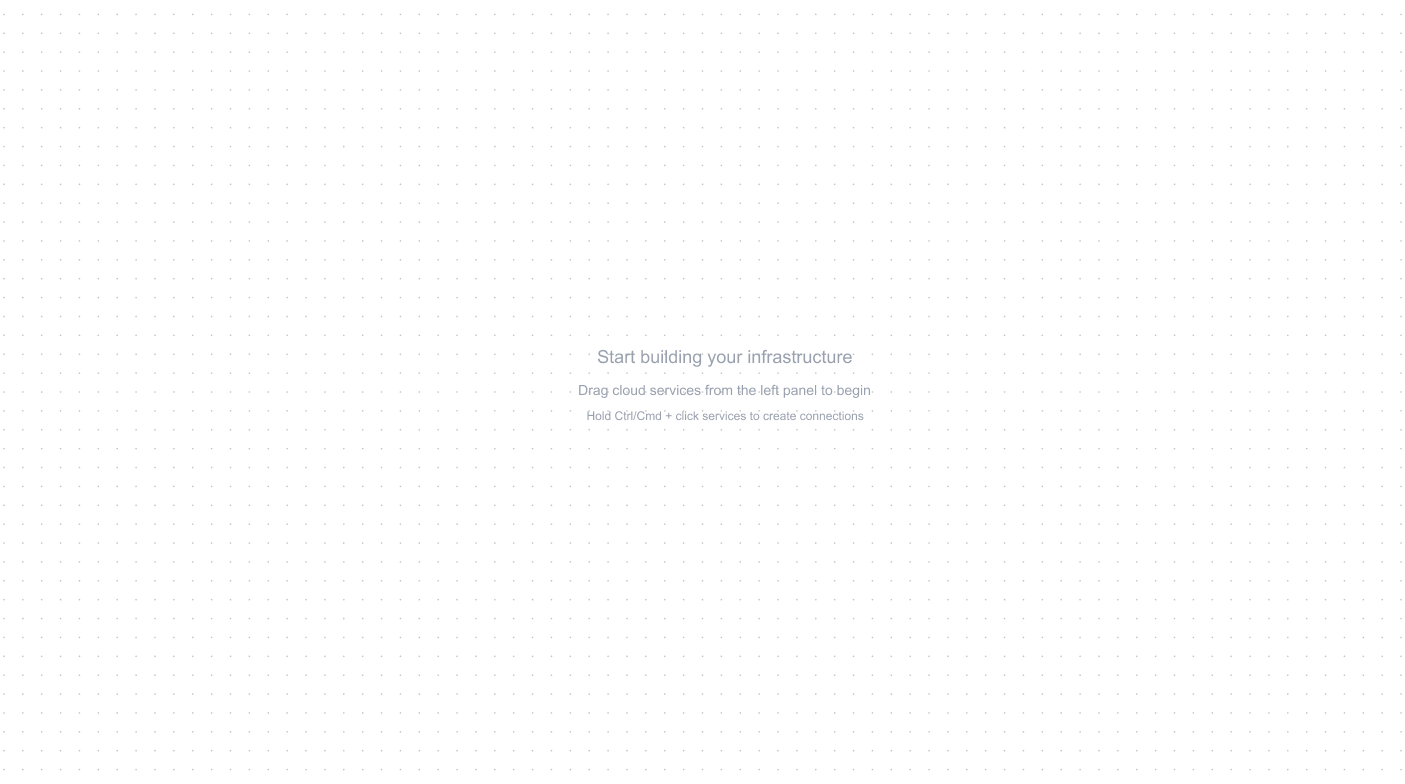
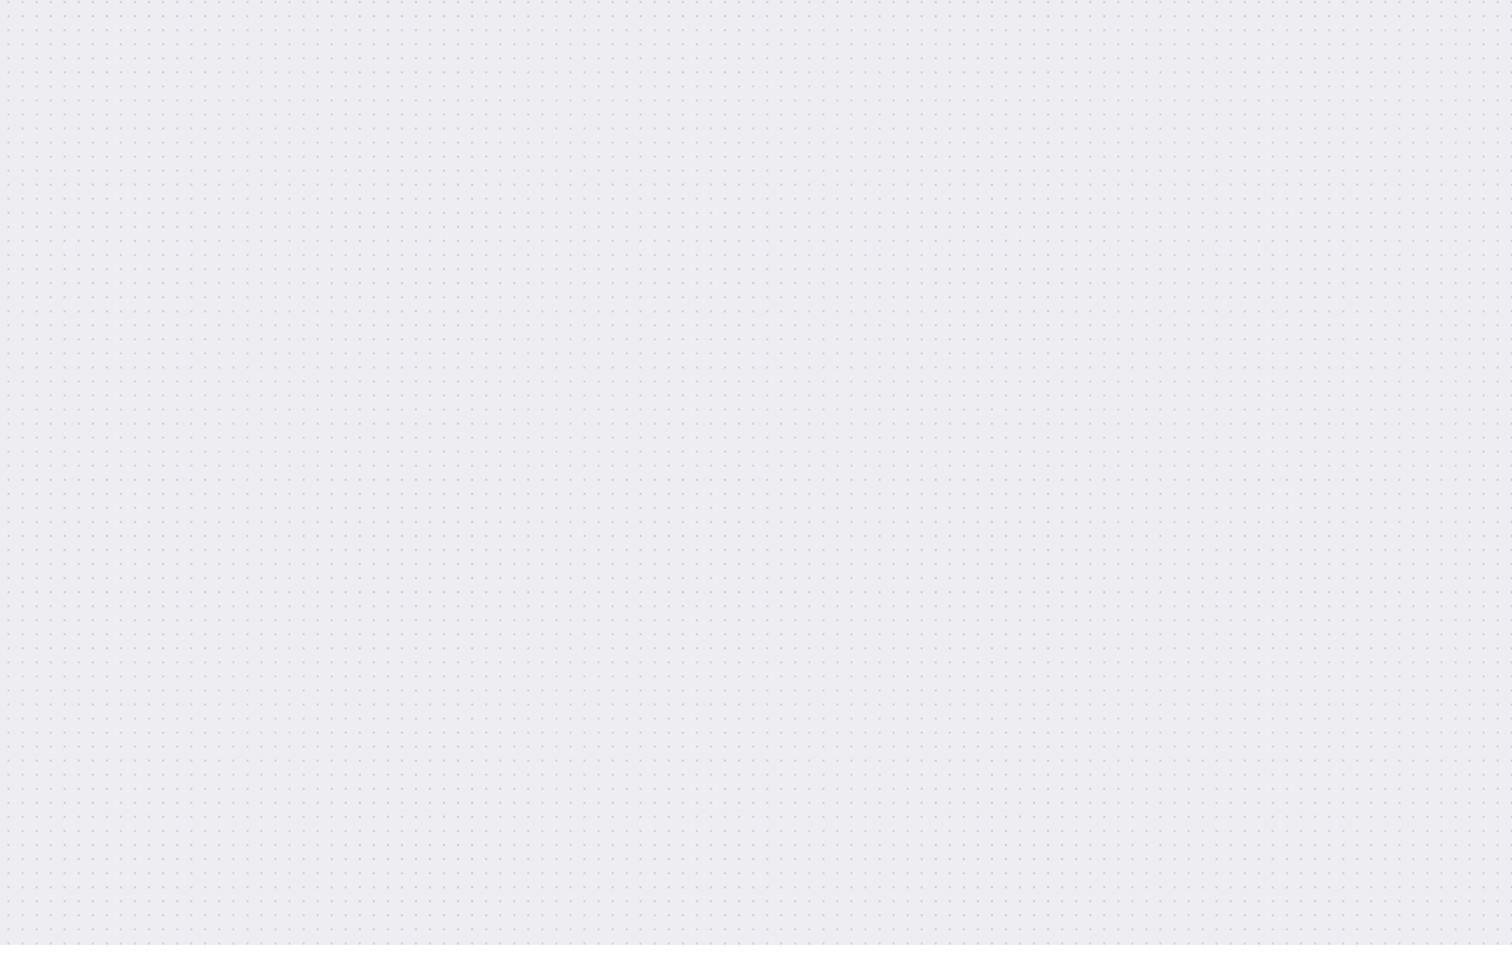
feat(canvas): add zoom functionality with controls and scaling
Implement zoom feature for canvas including:
- Zoom state management in context
- Zoom controls in navbar with slider and presets
- Proper scaling of nodes and mouse positions
- Canvas transform scaling with overflow handling

Changed region(s): [[0.3979, 0.4286, 0.6121, 0.551]]

diff --git a/src/components/AwsBuilder/TopNavbar.tsx b/src/components/AwsBuilder/TopNavbar.tsx
@@ -1,5 +1,6 @@
 import React, { useState } from 'react';
 import Image from 'next/image';
+import { useAwsBuilder } from '@/context/AwsBuilderContext';
 
 interface TopNavbarProps {
   className?: string;
@@ -11,6 +12,8 @@ interface TopNavbarProps {
 
 export const TopNavbar: React.FC<TopNavbarProps> = ({ className, onClearAll, onImport, onSave, onExport }) => {
   const [activeTab, setActiveTab] = useState('Canvas');
+  const { state, zoomIn, zoomOut, setZoom, resetZoom } = useAwsBuilder();
+  const [showZoomMenu, setShowZoomMenu] = useState(false);
 
   const navItems = [
     { id: 'canvas', label: 'Canvas', icon: '🎨' },
@@ -62,10 +65,47 @@ export const TopNavbar: React.FC<TopNavbarProps> = ({ className, onClearAll, onI
             <button className="px-2 py-1 rounded hover:bg-gray-100" title="Undo">↶</button>
             <button className="px-2 py-1 rounded hover:bg-gray-100" title="Redo">↷</button>
             <span className="h-5 w-px bg-gray-200 mx-1" />
-            <button className="px-2 py-1 rounded hover:bg-gray-100" title="Zoom out">−</button>
-            <span className="text-sm">100%</span>
-            <button className="px-2 py-1 rounded hover:bg-gray-100" title="Zoom in">+</button>
-            <button className="px-2 py-1 rounded hover:bg-gray-100" title="Fullscreen">⛶</button>
+
+            {/* Zoom controls cluster */}
+            <div className="relative flex items-center gap-2">
+              <button className="px-2 py-1 rounded hover:bg-gray-100" title="Zoom out" onClick={zoomOut}>−</button>
+              <button
+                className="px-2 py-1 rounded hover:bg-gray-100 text-sm"
+                title="Zoom menu"
+                onClick={() => setShowZoomMenu((v) => !v)}
+              >
+                {Math.round((state.zoom || 1) * 100)}%
+              </button>
+              <button className="px-2 py-1 rounded hover:bg-gray-100" title="Zoom in" onClick={zoomIn}>+</button>
+              <button className="px-2 py-1 rounded hover:bg-gray-100" title="Fullscreen">⛶</button>
+
+              {showZoomMenu && (
+                <div
+                  className="absolute top-8 left-0 bg-white border rounded shadow-lg p-3 z-50 min-w-[220px]"
+                  onMouseLeave={() => setShowZoomMenu(false)}
+                >
+                  <div className="text-xs text-slate-600 mb-2">Zoom</div>
+                  <div className="flex items-center gap-2">
+                    <input
+                      type="range"
+                      min={75}
+                      max={200}
+                      step={5}
+                      value={Math.round((state.zoom || 1) * 100)}
+                      onChange={(e) => setZoom(Number(e.target.value) / 100)}
+                      className="w-full"
+                    />
+                    <span className="text-xs w-10 text-right">{Math.round((state.zoom || 1) * 100)}%</span>
+                  </div>
+                  <div className="flex items-center gap-2 mt-3">
+                    <button onClick={() => setZoom(0.75)} className="px-2 py-1 rounded hover:bg-gray-100 text-xs">75%</button>
+                    <button onClick={() => setZoom(1)} className="px-2 py-1 rounded hover:bg-gray-100 text-xs">100%</button>
+                    <button onClick={() => setZoom(1.5)} className="px-2 py-1 rounded hover:bg-gray-100 text-xs">150%</button>
+                    <button onClick={resetZoom} className="px-2 py-1 rounded hover:bg-gray-100 text-xs">Reset</button>
+                  </div>
+                </div>
+              )}
+            </div>
           </div>
 
           {/* Right actions */}

diff --git a/src/context/AwsBuilderContext.tsx b/src/context/AwsBuilderContext.tsx
@@ -58,6 +58,8 @@ export type AwsBuilderState = {
   showPropertiesPanel: boolean;
   // Virtual anchors to allow connecting from aggregated boxes
   virtualAnchors: { id: string; x: number; y: number }[];
+  // Canvas zoom level (1 = 100%)
+  zoom: number;
 };
 
 export type AwsBuilderContextValue = {
@@ -86,6 +88,11 @@ export type AwsBuilderContextValue = {
   // Security Group helpers
   listSecurityGroupsForParent: (parentNodeId: string) => PlacedNode[];
   updateEc2SecurityGroups: (ec2NodeId: string, groupNames: string[]) => void;
+  // Zoom controls
+  setZoom: (z: number) => void;
+  zoomIn: () => void;
+  zoomOut: () => void;
+  resetZoom: () => void;
 };
 
 const AwsBuilderContext = createContext<AwsBuilderContextValue | undefined>(undefined);
@@ -103,6 +110,7 @@ export function AwsBuilderProvider({ children }: { children: ReactNode }) {
     showServiceModal: false,
     showPropertiesPanel: false,
     virtualAnchors: [],
+    zoom: 1,
   });
 
   const { currentProvider } = useCloudProvider();
@@ -326,11 +334,25 @@ export function AwsBuilderProvider({ children }: { children: ReactNode }) {
       showServiceModal: false,
       showPropertiesPanel: false,
       virtualAnchors: [],
+      zoom: 1,
     });
 
     // Also clear pricing state
     clearAllCosts();
   };
+
+  // Zoom control helpers
+  const setZoom = (z: number) => {
+    const clamped = Math.max(0.75, Math.min(2, z));
+    setState(prev => ({ ...prev, zoom: clamped }));
+  };
+  const zoomIn = () => {
+    setState(prev => ({ ...prev, zoom: Math.min(2, +(prev.zoom + 0.1).toFixed(2)) }));
+  };
+  const zoomOut = () => {
+    setState(prev => ({ ...prev, zoom: Math.max(0.75, +(prev.zoom - 0.1).toFixed(2)) }));
+  };
+  const resetZoom = () => setZoom(1);
 
   const exportData = () => ({
     nodes: state.placedNodes,
@@ -668,6 +690,11 @@ export function AwsBuilderProvider({ children }: { children: ReactNode }) {
      // Security Group helpers
      listSecurityGroupsForParent,
      updateEc2SecurityGroups,
+     // Zoom
+     setZoom,
+     zoomIn,
+     zoomOut,
+     resetZoom,
   };
 
   return (

diff --git a/src/components/AwsBuilder/CanvasArea.tsx b/src/components/AwsBuilder/CanvasArea.tsx
@@ -38,8 +38,9 @@ export function CanvasArea() {
       
       if (canvasRef.current) {
         const rect = canvasRef.current.getBoundingClientRect();
-        let x = e.clientX - rect.left - 40; // Center the icon (80px width / 2)
-        let y = e.clientY - rect.top - 40;  // Center the icon (80px height / 2)
+        const scale = state.zoom || 1;
+        let x = (e.clientX - rect.left) / scale - 40; // Center the icon (80px width / 2)
+        let y = (e.clientY - rect.top) / scale - 40;  // Center the icon (80px height / 2)
         
         // Smart positioning: Check if there's already a node at this position
         // If yes, offset the new node to prevent overlapping
@@ -120,9 +121,10 @@ export function CanvasArea() {
   const handleMouseMove = (e: React.MouseEvent) => {
     if (canvasRef.current) {
       const rect = canvasRef.current.getBoundingClientRect();
+      const scale = state.zoom || 1;
       setMousePosition({
-        x: e.clientX - rect.left,
-        y: e.clientY - rect.top
+        x: (e.clientX - rect.left) / scale,
+        y: (e.clientY - rect.top) / scale
       });
     }
   };
@@ -131,11 +133,15 @@ export function CanvasArea() {
     <div className="relative h-full">
       <div
         ref={canvasRef}
-        className="w-full h-full relative overflow-hidden transition-colors"
+        className="w-full h-full relative overflow-auto transition-colors"
           style={{
             backgroundColor: 'white',
             backgroundImage: 'url(/aws/DesignCanvas.png)',
             // backgroundSize: '60px 60px',
+            width: `${(1 / (state.zoom || 1)) * 100}%`,
+            height: `${(1 / (state.zoom || 1)) * 100}%`,
+            transform: `scale(${state.zoom || 1})`,
+            transformOrigin: 'top left',
           }}
         onDragOver={handleDragOver}
         onDragLeave={handleDragLeave}

diff --git a/src/components/AwsBuilder/DraggableNode.tsx b/src/components/AwsBuilder/DraggableNode.tsx
@@ -46,9 +46,10 @@ export function DraggableNode({ node, isSelected }: DraggableNodeProps) {
     
     const rect = nodeRef.current?.getBoundingClientRect();
     if (rect) {
+      const scale = state.zoom || 1;
       setDragOffset({
-        x: e.clientX - rect.left,
-        y: e.clientY - rect.top
+        x: (e.clientX - rect.left) / scale,
+        y: (e.clientY - rect.top) / scale
       });
     }
 
@@ -80,8 +81,9 @@ export function DraggableNode({ node, isSelected }: DraggableNodeProps) {
     const canvas = nodeRef.current?.parentElement;
     if (canvas) {
       const canvasRect = canvas.getBoundingClientRect();
-      const newX = e.clientX - canvasRect.left - dragOffset.x;
-      const newY = e.clientY - canvasRect.top - dragOffset.y;
+      const scale = state.zoom || 1;
+      const newX = (e.clientX - canvasRect.left) / scale - dragOffset.x;
+      const newY = (e.clientY - canvasRect.top) / scale - dragOffset.y;
       
       // Keep within canvas bounds
       const maxX = canvas.clientWidth - node.icon.width;
